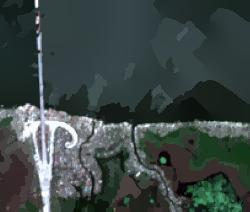
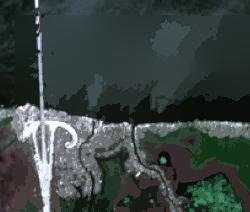
updated the calculation functions

diff --git a/src/lib.rs b/src/lib.rs
@@ -7,10 +7,7 @@ use numpy::{
 };
 use pyo3::prelude::*;
 use rayon::iter::ParallelBridge;
-use std::{
-    i32,
-    sync::atomic::{AtomicUsize, Ordering},
-};
+use std::sync::atomic::{AtomicBool, AtomicUsize, Ordering};
 
 fn mean_shift_pp_spatial(
     image: &Array3<f64>,
@@ -21,13 +18,18 @@ fn mean_shift_pp_spatial(
 ) -> Array3<f64> {
     let (h, w, d) = image.dim();
     let d = d + 2;
+
+    // create a 2D-Array of row,col indices
     let indices: Vec<f64> = (0..h)
         .into_par_iter()
         .flat_map_iter(|i| (0..w).flat_map(move |j| vec![i as f64, j as f64]))
         .collect();
 
     let indices_arr = Array2::from_shape_vec((h * w, 2), indices).unwrap();
+
+    // reshape image to number of pixels * channels
     let x = image.to_shape(((h * w, d - 2), Order::RowMajor)).unwrap();
+    // add the x and y coorinates to the channel axis
     let x = concatenate(Axis(1), &[indices_arr.view(), x.view()]).unwrap();
     let mut y = x.clone();
     let mut t = 1;
@@ -38,8 +40,10 @@ fn mean_shift_pp_spatial(
             .enumerate()
             .map(|(i, &v)| {
                 if i < 2 {
+                    // for the spatial dimension
                     (v / window_size).floor() as i32
                 } else {
+                    // for the channel dimension
                     (v / band_width).floor() as i32
                 }
             })
@@ -47,18 +51,19 @@ fn mean_shift_pp_spatial(
     };
 
     loop {
-        let c: DashMap<Vec<i32>, AtomicUsize> = DashMap::new();
-        let s: DashMap<Vec<i32>, Array1<f64>> = DashMap::new();
+        // store the count and the sum of the grid blocks
+        let cnt: DashMap<Vec<i32>, AtomicUsize> = DashMap::new();
+        let sum: DashMap<Vec<i32>, Array1<f64>> = DashMap::new();
 
         // Assign points to grid cells and update counts & sums in parallel
         y.axis_iter(Axis(0)).into_par_iter().for_each(|row| {
             let grid_idx = calc_grid_idx(&row);
 
-            c.entry(grid_idx.clone())
+            cnt.entry(grid_idx.clone())
                 .or_insert_with(|| AtomicUsize::new(0))
                 .fetch_add(1, Ordering::SeqCst);
 
-            s.entry(grid_idx.clone())
+            sum.entry(grid_idx.clone())
                 .or_insert_with(|| Array1::zeros(d))
                 .iter_mut()
                 .zip(row.iter())
@@ -86,20 +91,20 @@ fn mean_shift_pp_spatial(
                     }
                     neighbors.extend(new_neighbors);
                 }
-
+                // compute the new sum and count
                 let mut sum_s = Array1::<f64>::zeros(d);
                 let mut sum_c = 0;
                 for neighbor in neighbors {
-                    if let Some(count) = c.get(&neighbor) {
+                    if let Some(count) = cnt.get(&neighbor) {
                         sum_s
                             .iter_mut()
-                            .zip(s.get(&neighbor).unwrap().iter())
+                            .zip(sum.get(&neighbor).unwrap().iter())
                             .skip(2) // Skip first two spatial coordinates
                             .for_each(|(a, &b)| *a += b);
                         sum_c += count.load(Ordering::SeqCst);
                     }
                 }
-
+                // create new rows with updated mean
                 if sum_c > 0 {
                     // Only update non-spatial coordinates
                     let mut new_row = row.to_owned();
@@ -155,8 +160,9 @@ fn mean_shift_pp(x: &Array2<f64>, band_width: f64, threshold: f64, max_iter: usi
     let mut t = 1;
 
     loop {
-        let c: DashMap<Vec<i32>, AtomicUsize> = DashMap::new();
-        let s: DashMap<Vec<i32>, Array1<f64>> = DashMap::new();
+        // store sum and count of grid blocks
+        let cnt: DashMap<Vec<i32>, AtomicUsize> = DashMap::new();
+        let sum: DashMap<Vec<i32>, Array1<f64>> = DashMap::new();
 
         // Assign points to grid cells and update counts & sums in parallel
         y.axis_iter(Axis(0)).into_par_iter().for_each(|row| {
@@ -164,11 +170,11 @@ fn mean_shift_pp(x: &Array2<f64>, band_width: f64, threshold: f64, max_iter: usi
                 .iter()
                 .map(|&v| (v / band_width).floor() as i32)
                 .collect();
-            c.entry(grid_idx.clone())
+            cnt.entry(grid_idx.clone())
                 .or_insert_with(|| AtomicUsize::new(0))
                 .fetch_add(1, Ordering::SeqCst);
 
-            s.entry(grid_idx.clone())
+            sum.entry(grid_idx.clone())
                 .or_insert_with(|| Array1::zeros(d))
                 .iter_mut()
                 .zip(row.iter())
@@ -199,21 +205,23 @@ fn mean_shift_pp(x: &Array2<f64>, band_width: f64, threshold: f64, max_iter: usi
                     }
                     neighbors.extend(new_neighbors);
                 }
-
+                // calculate new sum and count
                 let mut sum_s = Array1::<f64>::zeros(d);
                 let mut sum_c = 0;
                 for neighbor in neighbors {
-                    if let Some(count) = c.get(&neighbor) {
+                    if let Some(count) = cnt.get(&neighbor) {
                         sum_s
                             .iter_mut()
-                            .zip(s.get(&neighbor).unwrap().iter())
+                            .zip(sum.get(&neighbor).unwrap().iter())
                             .for_each(|(a, &b)| *a += b);
                         sum_c += count.load(Ordering::SeqCst);
                     }
                 }
                 if sum_c > 0 {
+                    // calculate new mean
                     (sum_s / sum_c as f64).to_vec()
                 } else {
+                    // if no neighbours return original row
                     row.to_owned().to_vec()
                 }
             })
@@ -243,73 +251,91 @@ fn mean_shift_spatial(
     max_iter: usize,
     threshold: f64,
 ) -> Array3<f64> {
-    let mut image_arr = image.to_owned();
-    let h = image_arr.shape()[0];
-    let w = image_arr.shape()[1];
-    let c = image_arr.shape()[2];
-    let win_size_half = win_size / 2;
-    let mut new_image: Array3<f64> = Array3::zeros([h, w, c]);
-
-    let get_min_max = |ws: i64, idx: i64, length: i64| -> (i64, i64) {
-        let min = if ws < idx { -ws } else { -idx };
-        let max = if ws + idx <= length { ws } else { length - idx };
-        (min, max)
+    // for calculating the bounds of window
+    let get_valid_range = |ws: i64, idx: i64, length: i64| -> (usize, usize) {
+        (
+            idx.saturating_sub(ws) as usize,
+            (idx + ws).min(length - 1) as usize,
+        )
     };
 
-    for _ in 0..max_iter {
-        let new_rows: Vec<(Array2<f64>, bool)> = (0..h)
-            .into_par_iter()
-            .map(|i| {
-                let mut converged = true;
-                let (min_row, max_row) = get_min_max(win_size_half, i as i64, h as i64);
-                let mut current_row: Array2<f64> = Array2::zeros([w, c]);
-                for j in 0..w {
-                    let pixel = image_arr.slice(s![i, j, ..]);
-                    let mut cnt = 0;
-                    let (min_col, max_col) = get_min_max(win_size_half, j as i64, w as i64);
-                    let mut mean = Array1::zeros(c);
+    let (h, w, c) = (image.shape()[0], image.shape()[1], image.shape()[2]);
+    let win_size_half = win_size / 2;
 
-                    for di in min_row..max_row {
-                        let row = i as i64 + di;
-                        for dj in min_col..max_col {
-                            let col = j as i64 + dj;
-                            let neighbour = image_arr.slice(s![row as usize, col as usize, ..]);
-                            let diff = &pixel - &neighbour;
-                            let norm = diff.mapv(|x| x.powi(2)).sum().sqrt();
-                            if norm <= color_radius {
-                                mean += &neighbour;
-                                cnt += 1;
+    // create a flattend vec of pixels
+    let mut pixels: Vec<Array1<f64>> = (0..h * w)
+        .into_par_iter()
+        .map(|idx| {
+            let i = idx / w;
+            let j = idx % w;
+            image.slice(s![i, j, ..]).to_owned()
+        })
+        .collect();
+
+    for _ in 0..max_iter {
+        let converged = AtomicBool::new(true);
+        // compute new pixels in parallel
+        pixels = (0..h)
+            .into_par_iter()
+            .flat_map(|i| {
+                // range  of rows
+                let (min_row, max_row) = get_valid_range(win_size_half, i as i64, h as i64);
+                (0..w)
+                    .into_par_iter()
+                    .map(|j| {
+                        // range of columns
+                        let (min_col, max_col) = get_valid_range(win_size_half, j as i64, w as i64);
+
+                        // Current pixel
+                        let pixel = &pixels[i * w + j];
+
+                        let mut mean = Array1::zeros(c);
+                        let mut cnt = 0;
+
+                        // Iterate over the neighborhood
+                        for row in min_row..max_row {
+                            for col in min_col..max_col {
+                                let neighbor = &pixels[row as usize * w as usize + col as usize];
+                                let diff = pixel - neighbor;
+                                let norm = diff.mapv(|x| x.powi(2)).sum().sqrt();
+
+                                if norm <= color_radius {
+                                    // update sum and count
+                                    mean += neighbor;
+                                    cnt += 1;
+                                }
                             }
                         }
-                    } // for di
-                    if cnt > 0 {
-                        mean /= cnt as f64;
-                        let norm = (&pixel - &mean).mapv(|x| x.powi(2)).sum().sqrt();
-                        current_row.slice_mut(s![j, ..]).assign(&mean);
-                        if norm > threshold {
-                            converged = false;
+
+                        // Update the pixel
+                        if cnt > 0 {
+                            mean /= cnt as f64;
+                        } else {
+                            mean.assign(&pixel);
                         }
-                    } else {
-                        current_row.slice_mut(s![j, ..]).assign(&pixel);
-                    }
-                } // for j
-                return (current_row, converged);
+
+                        let norm = (pixel - &mean).mapv(|x| x.powi(2)).sum().sqrt();
+                        if norm > threshold {
+                            converged.store(false, Ordering::Relaxed);
+                        }
+
+                        mean
+                    })
+                    .collect::<Vec<Array1<f64>>>()
             })
-            .collect(); // for i
-        let mut converged = true;
-        for (idx, (arr, conv)) in new_rows.iter().enumerate() {
-            new_image.slice_mut(s![idx, .., ..]).assign(&arr);
-            if !conv {
-                converged = false;
-            }
-        }
-        image_arr = new_image.clone();
-        if converged {
+            .collect();
+        if converged.load(Ordering::Relaxed) {
             break;
         }
     }
 
-    return image_arr;
+    let flat_values = pixels
+        .par_iter()
+        .map(|pxl| pxl.to_vec())
+        .flatten()
+        .collect::<Vec<f64>>();
+
+    Array3::from_shape_vec((h, w, c), flat_values).unwrap()
 }
 
 #[pyfunction(name = "mean_shift_pp_spatial")]
@@ -356,21 +382,3 @@ fn mean_shift(m: &Bound<'_, PyModule>) -> PyResult<()> {
     m.add_function(wrap_pyfunction!(mean_shift_pp_spatial_py, m)?)?;
     Ok(())
 }
-// for the meanshift plus plus
-// return unique cluster centers?
-// let mut cluster_centers: HashMap<Vec<i32>, Array1<f64>> = HashMap::new();
-// for i in 0..n {
-//     let grid_idx: Vec<i32> = y.row(i).iter().map(|&v| (v / h).floor() as i32).collect();
-//     cluster_centers
-//         .entry(grid_idx.clone())
-//         .or_insert_with(|| y.row(i).to_owned());
-// }
-//
-// let centers = Array2::from_shape_vec(
-//     (cluster_centers.len(), d),
-//     cluster_centers
-//         .values()
-//         .flat_map(|v| v.iter().cloned())
-//         .collect(),
-// )
-// .unwrap();

diff --git a/example.py b/example.py
@@ -25,11 +25,10 @@ class Timer:
         print(f"{self.name}: {int(minutes):02d}:{int(seconds):02d}.{milliseconds}")
 
 
-h, w, c = (512, 512, 3)
-image = np.random.randint(0, 255, (h, w, c)).astype(np.float64)
-
-# image = np.array(Image.open("./input_files/test-image.jpg")).astype(np.float64)
-# h, w, c = image.shape
+# h, w, c = (100, 100, 3)
+# image = np.random.randint(0, 255, (h, w, c)).astype(np.float64)
+image = np.array(Image.open("./input_files/test-image.jpg")).astype(np.float64)
+h, w, c = image.shape
 data = image.reshape(h * w, -1).astype(np.float64)
 print("Image Shape: ", image.shape)
 
@@ -37,25 +36,25 @@ print("Image Shape: ", image.shape)
 # Comparing the different mean-shifts
 with Timer("Mean-Shift-Spatial"):
     ms_sp_out = mean_shift_spatial(
-        image, win_size=71, color_radius=15, max_iter=100, threshold=1
+        image, win_size=31, color_radius=15, max_iter=15, threshold=1
     )
 
 with Timer("Mean-Shift++"):
-    ms_pp_out = mean_shift_pp(data, band_width=15, threshold=1, max_iter=100)
+    ms_pp_out = mean_shift_pp(data, band_width=15, threshold=1, max_iter=15)
 
 
 with Timer("Mean-Shift++-Spatial"):
     ms_pp_sp_out = mean_shift_pp_spatial(
-        image, win_size=71, color_radius=15, max_iter=100, threshold=1
+        image, win_size=31, color_radius=15, max_iter=15, threshold=1
     )
-#
-# img = Image.fromarray(ms_sp_out.astype(np.uint8))
-# img.save("./output_files/Mean-Shift-Spatial.jpg")
-# img = Image.fromarray(ms_pp_out.reshape(h, w, c).astype(np.uint8))
-# img.save("./output_files/Mean-Shift_pp.jpg")
-# img = Image.fromarray(ms_pp_sp_out.astype(np.uint8))
-# img.save("./output_files/Mean-Shift-pp-Spatial.jpg")
-#
+
+img = Image.fromarray(ms_sp_out.astype(np.uint8))
+img.save("./output_files/Mean-Shift-Spatial.jpg")
+img = Image.fromarray(ms_pp_out.reshape(h, w, c).astype(np.uint8))
+img.save("./output_files/Mean-Shift_pp.jpg")
+img = Image.fromarray(ms_pp_sp_out.astype(np.uint8))
+img.save("./output_files/Mean-Shift-pp-Spatial.jpg")
+
 
 X, _ = make_blobs(n_samples=500, centers=4, cluster_std=1.0, random_state=42)
 
